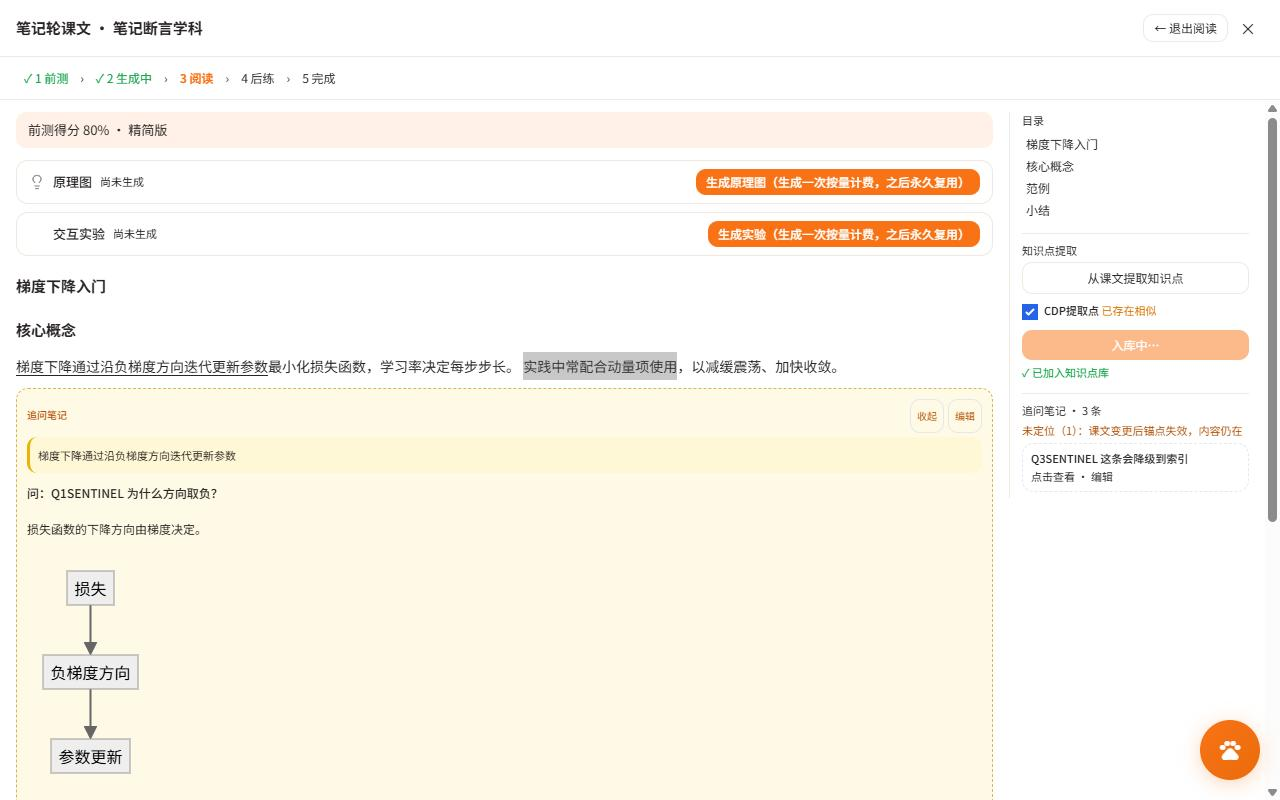
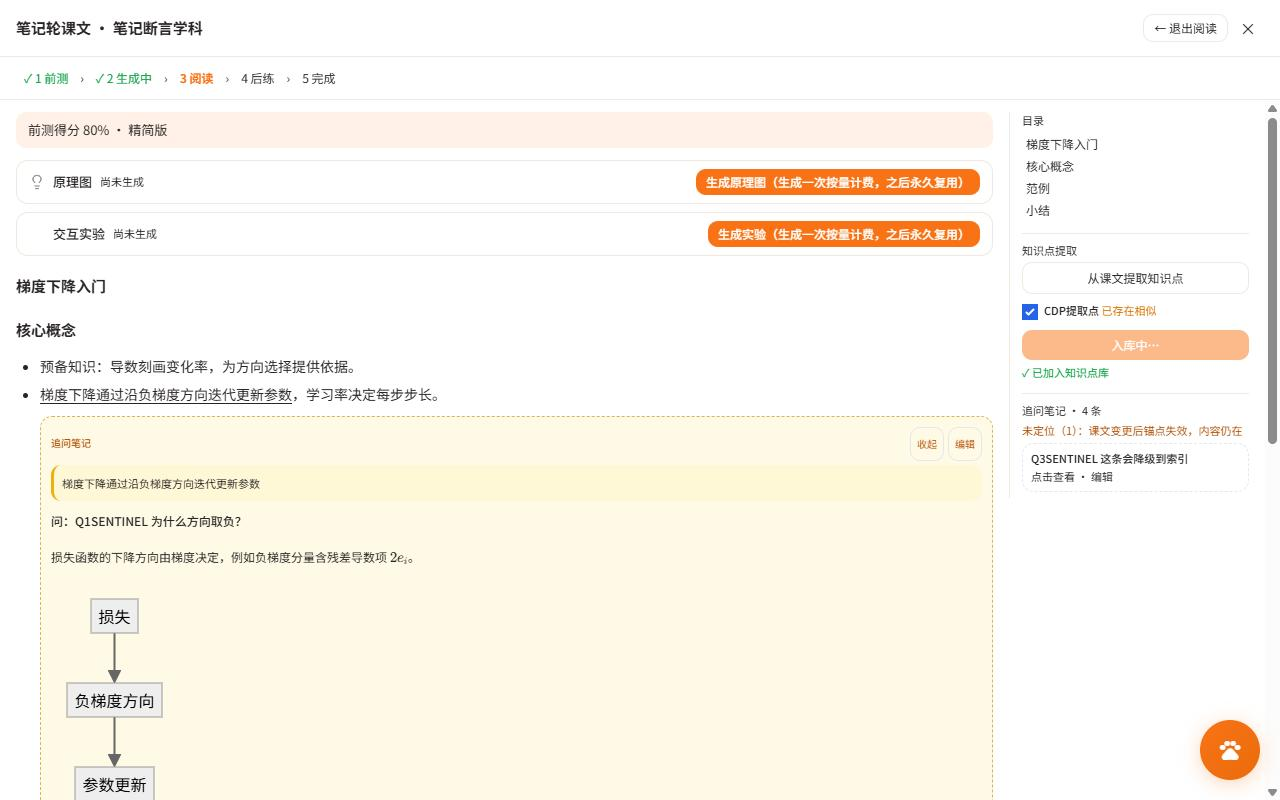
fix(course-notes): 全局禁缓存根治旧页面 + 子追问按锚落位统一渲染管线（八追/九追）
八追: app.py after_request 对 text/html 与 /fragments/ 设 no-store（SPA 主通道 JSON 包裹页面 HTML，只判 mimetype 会漏）；errorhandler 非 API HTTPException 改 get_response（raise e 使页面 404 全变 500）；永久测试 test_html_cache_no_store.py 7 例。

九追: learn_goals.html 子追问（追问的追问）不再堆父节末尾——hydrateNoteTree/hydrateNoteSection/placeChildNotes 统一管线在父回答渲染后文本内按 anchor_text 定位、挂行不挂块、同锚归组、锚不中降级 kids 内容不丢；wrapAnchorText 嵌套隔离（上溯到搜索根途中遇组才排除）；评审采纳同行多组跨链追加保持建序 + parent_id 成环限深。E2E N5 重写+N5b 降级用例，CDP 26/26 PASS。

Changed region(s): [[0.0, 0.4375, 0.7812, 1.0], [0.9688, 0.5625, 1.0, 0.6562]]

diff --git a/server/templates/pages/learn_goals.html b/server/templates/pages/learn_goals.html
@@ -895,6 +895,13 @@
         while ((nnode = tw.nextNode())) {
             if (nnode.closest && nnode.closest('script, style')) continue;
             if (!nnode.nodeValue) continue;
+            // 嵌套隔离（九追 2026-11-13）：从文本上溯到搜索根 root 途中遇 .cg-anchor-group
+            // → 该文本属于已落入 root 内部的笔记子组（如父回答里的子追问），不参与锚搜索；
+            // root 自身所在的祖先组不算（顶层组内父回答正文必须可被子锚命中）
+            for (var up = nnode.parentElement; up && up !== root; up = up.parentElement) {
+                if (up.classList && up.classList.contains('cg-anchor-group')) { nnode = null; break; }
+            }
+            if (!nnode) continue;
             nodes.push({ node: nnode, start: full.length });
             full += nnode.nodeValue;
         }
@@ -927,11 +934,73 @@
     function noteSectionHtml(list) {
         return list.map(function (n) { return renderNoteNode(n); }).join('');
     }
+    // 九追 2026-11-13：追问的追问要落在父回答里被框选的那段下面（此前所有子节点无条件
+    // 堆父节末尾，子笔记 anchor_text 从不参与落位——用户报「追问记录里位置都不对」）。
+    // 统一管线：渲父回答→回填 KaTeX（子锚以渲染后文本为准，与课文层同口径）→
+    // 子组插进带锚段后；锚不中/表格内降级节末容器，内容不丢。
+    function hydrateNoteTree(root, seen) {
+        if (!root || !root.querySelectorAll) return;
+        Array.prototype.forEach.call(root.querySelectorAll(':scope > .cg-note'), function (sec) { hydrateNoteSection(sec, seen); });
+    }
+    function hydrateNoteSection(sec, seen) {
+        var n = noteById(Number(sec.getAttribute('data-note-id')));
+        if (!n) return;
+        var aEl = sec.querySelector(':scope > .cg-note-a');
+        if (!aEl) return; // 折叠态无回答区：子节随父一起收起，展开重建时恢复
+        renderLessonMd(aEl, n.answer_md);
+        cgMermaid(aEl);
+        // 子锚搜索命中的是 renderLessonMd 内 applyMath 已回填的 KaTeX 渲染后文本（框选入库口径）；
+        // 此处 cgHydrateMath 仅作防御（引用级占位槽残余），不可去掉 renderLessonMd 的公式回填
+        cgHydrateMath(aEl);
+        placeChildNotes(sec, seen);
+    }
+    function placeChildNotes(sec, seen) {
+        seen = seen || {}; // 脏数据 parent_id 成环时限深（环上节点只渲一次，不致递归死循环）
+        var sid = Number(sec.getAttribute('data-note-id'));
+        if (seen[sid]) return;
+        seen[sid] = 1;
+        var kids = (flow.notes || []).filter(function (c) { return c.parent_id === sid; });
+        if (!kids.length) return;
+        var aEl = sec.querySelector(':scope > .cg-note-a');
+        var fallback = sec.querySelector(':scope > .cg-note-kids');
+        var grpMap = {}, order = []; // 同锚串归一组（与顶层 anchorNotes 同构）
+        kids.forEach(function (c) {
+            var k = String(c.anchor_text || '');
+            if (!grpMap[k]) { grpMap[k] = []; order.push(k); }
+            grpMap[k].push(c);
+        });
+        order.forEach(function (k) {
+            var list = grpMap[k];
+            var box = document.createElement('div');
+            box.className = 'cg-anchor-group';
+            var gk = 'cgAG' + list.map(function (c) { return c.id; }).join('_');
+            box.setAttribute('data-anchor-group', gk);
+            box.innerHTML = noteSectionHtml(list);
+            box.querySelectorAll(':scope > .cg-note').forEach(function (s) { s.setAttribute('data-anchor-group', gk); });
+            var placed = false;
+            if (aEl && k) {
+                var marks = wrapAnchorText(aEl, k, gk);
+                if (marks.length) {
+                    // 行级容器上溯同课文层口径（六追教训：挂整块=列表末尾错位）；
+                    // 找不到行级宿主（如锚在表格内）宁可降级，不硬插错位位置；
+                    // 同行已有子组时跨组链追加（CodeReview Major-1：同 appendNoteSection 走位，多组保持建序不反序）
+                    var ln = marks[0].parentNode, LINE_RE = /^(P|LI|BLOCKQUOTE|H[1-6]|DD|DT)$/;
+                    while (ln && ln !== aEl && !LINE_RE.test(ln.tagName || '')) ln = ln.parentNode;
+                    if (ln && ln !== aEl) {
+                        var ref = ln.nextSibling;
+                        while (ref && ref.nodeType === 1 && ref.classList && ref.classList.contains('cg-anchor-group')) { ref = ref.nextSibling; }
+                        ln.parentNode.insertBefore(box, ref); placed = true;
+                    }
+                }
+            }
+            if (!placed && fallback) { fallback.appendChild(box); placed = true; } // 降级：锚不中/无锚子节落节末，内容不丢
+            if (placed) hydrateNoteTree(box, seen); // 入文档后递归（携环检测）：孙辈在子回答内同法落位
+        });
+    }
     // 递归渲染一个笔记节点（虚线淡黄子章节）：引用 + 问 + 答（MD+公式+思路图同管线）
     // + 子节点（追问的追问，无限嵌套）+ 编辑/折叠；默认展开，折叠态存内存
     function renderNoteNode(n) {
         var collapsed = !!(flow.collapsed || {})[n.id];
-        var kids = (flow.notes || []).filter(function (c) { return c.parent_id === n.id; });
         var inner = '<div class="flex items-start justify-between gap-2 mb-1">'
             + '<span class="cg-note-tag text-[10px] font-medium text-amber-700 shrink-0 mt-0.5">追问笔记</span>'
             + '<span class="flex items-center gap-1 shrink-0">'
@@ -942,7 +1011,7 @@
         }
         inner += '<div class="cg-note-q text-[12px] font-medium text-cl-text mb-1">问：' + cgMdSpan(n.question) + '</div>';
         if (!collapsed) inner += '<div class="cg-note-a text-[12px] leading-6 text-cl-text"></div>'; // 折叠态只显摘要（引用+问），回答不渲染
-        if (!collapsed && kids.length) inner += '<div class="cg-note-kids mt-2 flex flex-col gap-2">' + kids.map(function (k) { return renderNoteNode(k); }).join('') + '</div>';
+        if (!collapsed) inner += '<div class="cg-note-kids mt-2 flex flex-col gap-2"></div>'; // 子节容器：命中锚的子节插进回答对应段后，此处只收降级件（九追）
         return '<div class="cg-read-note cg-note rounded-cl p-2.5 my-2" data-note-id="' + n.id + '" data-collapsed="' + (collapsed ? 1 : 0) + '">' + inner + '</div>';
     }
     function appendNoteSection(mdEl, anchorEl, list, gkey) {
@@ -960,15 +1029,9 @@
             if (ref) { anchorEl.parentNode.insertBefore(wrap, ref); }
             else { anchorEl.parentNode.appendChild(wrap); }
         } else { mdEl.appendChild(wrap); }
-        // 回答区（含嵌套子节）：入文档后就地渲染，走课文同一 MD/公式/mermaid 管线（图文并貌 prompt 的产物能出图）
-        Array.prototype.forEach.call(wrap.querySelectorAll('.cg-note'), function (sec) {
-            var n = noteById(Number(sec.getAttribute('data-note-id')));
-            if (!n) return;
-            var aEl = sec.querySelector('.cg-note-a');
-            if (!aEl) return; // 折叠态无回答区（展开时重建再渲）
-            renderLessonMd(aEl, n.answer_md);
-            cgMermaid(aEl);
-        });
+        // 回答区（含嵌套子节）：入文档后走统一管线（九追）——逐节渲回答→回填 KaTeX→
+        // 子追问在父回答内按锚落位；图文并貌 prompt 的产物能出图
+        hydrateNoteTree(wrap);
         cgHydrateMath(wrap); // 引用/问题占位 span 回填（KaTeX 必须在已入文档节点上渲）
     }
     function renderNotesIndex() {
@@ -1185,15 +1248,8 @@
             tmp.querySelectorAll(':scope > .cg-note').forEach(function (s) { s.setAttribute('data-anchor-group', gkey); });
         }
         if (grp.parentNode) grp.parentNode.replaceChild(tmp, grp);
-        // 入文档后再渲回答与回填占位（KaTeX/mermaid 对分离碎片不渲染）
-        Array.prototype.forEach.call(tmp.querySelectorAll('.cg-note'), function (sec) {
-            var n = noteById(Number(sec.getAttribute('data-note-id')));
-            if (!n) return;
-            var aEl = sec.querySelector('.cg-note-a');
-            if (!aEl) return; // 折叠节无回答区，展开时再渲染
-            renderLessonMd(aEl, n.answer_md);
-            cgMermaid(aEl);
-        });
+        // 入文档后走统一管线重建（九追）：回答渲染、KaTeX/mermaid 回填、子追问按锚落位全部重算
+        hydrateNoteTree(tmp);
         cgHydrateMath(tmp);
         window.__cgNoteToggled = true; // CDP 断言哨兵
     }

diff --git a/server/tests/_cg_notes_assert.js b/server/tests/_cg_notes_assert.js
@@ -119,10 +119,23 @@ function chk(name, ok, info) {
         return !!(sib && sib.classList.contains('cg-anchor-group') && sib.querySelector('.cg-read-note')); })()`);
     chk('N4b 笔记紧跟带锚列表项（非整表末尾）', n4b === true, { n4b });
 
-    // N5 无限嵌套：追问的追问渲染在父章节 .cg-note-kids 内
-    const n5 = await evalJs(`(function(){ var k = document.querySelector('.cg-read-note[data-note-id="${S.n1}"] .cg-note-kids .cg-note[data-note-id="${S.n2}"]');
-        return !!k && k.innerText.indexOf('Q2SENTINEL') >= 0 && k.innerText.indexOf('ANSWER2SENTINEL') >= 0; })()`);
-    chk('N5 嵌套子章节（追问的追问）渲染', n5 === true, { n5 });
+    // N5 追问的追问落位（九追 2026-11-13）：n2 锚「步长」必须落在父回答该段之后（非节末堆叠）
+    const n5 = await evalJs(`(function(){ var sec = document.querySelector('.cg-read-note[data-note-id="${S.n1}"]');
+        if (!sec) return null; var aEl = sec.querySelector(':scope > .cg-note-a');
+        var kidsSec = sec.querySelector(':scope > .cg-note-kids');
+        var inKids = !!(kidsSec && kidsSec.querySelector('.cg-note[data-note-id="${S.n2}"]'));
+        var m = aEl.querySelector('.cg-anchor'); if (!m) return { mark: false, inKids: inKids };
+        var ln = m; while (ln && ln.parentNode !== aEl) ln = ln.parentNode; // 锚所在、aEl 直接子行
+        var grp = ln ? ln.nextElementSibling : null;
+        var afterLine = !!(grp && grp.classList.contains('cg-anchor-group') && grp.querySelector('.cg-note[data-note-id="${S.n2}"]'));
+        return { mark: true, inKids: inKids, afterLine: afterLine, lineHas: !!(ln && ln.textContent.indexOf('步长') >= 0 && ln.tagName !== 'CG-NOTE-A'),
+                 sent: !!(grp && grp.innerText.indexOf('Q2SENTINEL') >= 0 && grp.innerText.indexOf('ANSWER2SENTINEL') >= 0) }; })()`);
+    chk('N5 子追问落父回答锚段之后（非节末）', !!n5 && n5.mark === true && n5.inKids === false && n5.afterLine === true && n5.lineHas === true && n5.sent === true, { n5 });
+
+    // N5b 子锚不中降级：n2b 落父节末尾 .cg-note-kids，内容不丢（九追）
+    const n5b = await evalJs(`(function(){ var k = document.querySelector('.cg-read-note[data-note-id="${S.n1}"] .cg-note-kids .cg-note[data-note-id="${S.n2b}"]');
+        return !!k && k.innerText.indexOf('Q2BSENTINEL') >= 0 && k.innerText.indexOf('ANSWER2BSENTINEL') >= 0; })()`);
+    chk('N5b 子锚不中降级节末 kids 内容不丢', n5b === true, { n5b });
 
     // N6 点锚文本收起 → 回答区消失只剩摘要；再点恢复展开
     await evalJs(`document.querySelector('#cgMdBody .cg-anchor').click(); 'ok'`, false);

diff --git a/server/tests/test_html_cache_no_store.py b/server/tests/test_html_cache_no_store.py
@@ -1,0 +1,89 @@
+# -*- coding: utf-8 -*-
+"""HTML 页面全局防缓存断言（实弹轮八追 2026-11-13：项目此前 0 缓存控制头，
+Chromium/Electron 对无 validators 的 HTML 走启发式缓存，部署修复用户碰不到）。
+
+运行方式（server/ 目录）：python -m pytest tests/test_html_cache_no_store.py -v
+"""
+import sys
+from pathlib import Path
+
+sys.path.insert(0, str(Path(__file__).resolve().parents[1]))
+
+
+def _app():
+    from app import create_app
+    app = create_app()
+    app.config["TESTING"] = True
+    return app
+
+
+def test_page_html_no_store():
+    """GET /learn_goals：text/html 响应必须带 Cache-Control: no-store。"""
+    with _app().test_client() as c:
+        r = c.get("/learn_goals")
+        assert r.status_code == 200
+        assert r.mimetype == "text/html"
+        assert r.headers.get("Cache-Control") == "no-store", dict(r.headers)
+
+
+def test_shell_html_no_store():
+    """SPA 壳 GET /：同样 no-store（壳内同样可能承载页面脚本）。"""
+    with _app().test_client() as c:
+        r = c.get("/")
+        assert r.status_code == 200
+        assert r.mimetype == "text/html"
+        assert r.headers.get("Cache-Control") == "no-store"
+
+
+def test_api_json_not_touched():
+    """JSON API 不属于 text/html：不加 no-store（本修复只管页面文档）。"""
+    with _app().test_client() as c:
+        r = c.get("/api/health")
+        assert r.status_code == 200
+        assert r.mimetype == "application/json"
+        assert r.headers.get("Cache-Control") != "no-store"
+
+
+def test_static_css_not_no_store():
+    """静态资源不受影响（CodeReview Minor-1）：cl.css 保持 mtime 版本号缓存机制，
+    不得被误加 no-store；200/304 均可，关键看头。"""
+    with _app().test_client() as c:
+        r = c.get("/static/css/cl.css")
+        assert r.status_code in (200, 304)
+        assert r.headers.get("Cache-Control") != "no-store"
+
+
+def test_spa_fragment_no_store():
+    """SPA 主页面通道 /fragments/<id>（八追核心）：learn_goals 等页面的 HTML+JS 实经
+    此 JSON 包裹通道送达用户——虽 mimetype 是 application/json 也必须 no-store，
+    否则「改了但用户碰不到」依旧重演。未鉴权 401 同样应带头。"""
+    with _app().test_client() as c:
+        r = c.get("/fragments/learn_goals")
+        assert r.status_code in (200, 401)
+        assert r.headers.get("Cache-Control") == "no-store"
+
+
+def test_error_html_page_no_store():
+    """文档级 HTML 错误页同样带 no-store（CodeReview Minor-2）：防旧错误页被缓存。
+    取非 /api/ 前缀的不存在路径（/api/ 错误回 JSON 不属 text/html 分支）。
+    TESTING 模式默认 PROPAGATE_EXCEPTIONS=True 会把 NotFound 直抛给测试方，
+    生产路径实为渲染 HTML 错误页，故显式关 PROPAGATE_EXCEPTIONS 对齐。"""
+    app = _app()
+    app.config["PROPAGATE_EXCEPTIONS"] = False
+    with app.test_client() as c:
+        r = c.get("/no_such_page_zzz")
+        assert r.status_code == 404
+        assert r.mimetype == "text/html"
+        assert r.headers.get("Cache-Control") == "no-store"
+
+
+def test_api_error_stays_json():
+    """/api/ 前缀错误仍回 JSON 形（钉住追问笔记树轮 errorhandler 分支 + 八追修复不串道）：
+    API 路径 404 不得因 HTTPException 优先分支变成 HTML。"""
+    app = _app()
+    app.config["PROPAGATE_EXCEPTIONS"] = False
+    with app.test_client() as c:
+        r = c.get("/api/no_such_zzz")
+        assert r.status_code == 404
+        assert r.mimetype == "application/json"
+        assert r.get_json()["success"] is False

diff --git a/server/app.py b/server/app.py
@@ -70,6 +70,18 @@ def create_app() -> Flask:
     def _reset_billing_ctx():
         _credits.set_last_billing(None)
 
+    # HTML 页面全局防缓存（实弹轮 2026-11-13 八追）：页面模板内嵌全部 JS，此前项目 0 个
+    # 缓存控制头，Chromium/Electron 对无 validators 的响应走启发式缓存——服务重启部署后
+    # 用户仍跑旧版页面（「改了但用户碰不到」三度重演的结构性根因）。除 text/html 外还
+    # 须覆盖 /fragments/：SPA 菜单切页走 fetch('/fragments/<id>')，页面 HTML+JS 裹在
+    # application/json 体里送达，是用户实际碰到的主页面通道；静态资源不受影响（cl.css
+    # 已有 mtime 版本号机制）。
+    @app.after_request
+    def _no_store_html(resp):
+        if resp.mimetype == "text/html" or request.path.startswith("/fragments/"):
+            resp.headers["Cache-Control"] = "no-store"
+        return resp
+
     app.register_blueprint(pages_bp)  # P2c 页面路由（SPA 壳 + 登录页 + fragments）
     app.register_blueprint(auth_bp)
     app.register_blueprint(kb_bp)  # P3 业务 API（科目/提取/确认/错题/收藏/脑图/练习/笔记）
@@ -91,15 +103,20 @@ def create_app() -> Flask:
     # 仅限 /api/ 前缀，页面路由不受影响；异常照旧进统一调试日志留痕。
     @app.errorhandler(Exception)
     def _api_error_json(e):
+        from werkzeug.exceptions import HTTPException
         if request.path.startswith("/api/"):
             try:
                 debug_logger.log_error("api", "unhandled_exception", e, {"path": request.path})
             except Exception:  # noqa: BLE001 留痕失败不阻断报错
                 pass
-            from werkzeug.exceptions import HTTPException
             if isinstance(e, HTTPException):  # 404/405 等标准错误也回 JSON 形
                 return jsonify({"success": False, "error": e.description or str(e)}), e.code
             return jsonify({"success": False, "error": f"服务内部错误: {e}"}), 500
+        # 非 API 路径：HTTP 异常（404/405 等）原样渲染标准错误页。此前直接 raise e
+        # 会被 Flask 当作「错误处理器自身抛异常」不再二次处理，页面路由 404 全部变
+        # 500（八追实弹轮 2026-11-13 活服探针发现）；真未控异常照旧上抛走默认处理。
+        if isinstance(e, HTTPException):
+            return e.get_response()
         raise e
 
     # 统一调试日志通道（客户端/前端上报；与旧工程 app_flask 相同语义：静默失败）

diff --git a/server/tests/_cg_notes_seed.py b/server/tests/_cg_notes_seed.py
@@ -2,11 +2,12 @@
 """课文追问笔记树 E2E 断言 seed（仅测试用户数据，用后即删，零 LLM）。
 
 argv: username out_json
-建 goal→module→lesson（content_ready 正文在库 → openLesson 直进阅读步），灌 3 条 lesson_notes：
+建 goal→module→lesson（content_ready 正文在库 → openLesson 直进阅读步），灌 4 条 lesson_notes：
 n1 顶层（锚文本在正文中，可锚定；回答含 mermaid 思路图与哨兵 ANSWER1）、
-n2 追问的追问（parent=n1，无限嵌套断言用）、
+n2 追问的追问（parent=n1，锚=父回答里的「步长」段 → 九追断言：落在该段之后）、
+n2b 追问的追问（parent=n1，锚在父回答中不存在 → 降级落节末 kids 容器，内容不丢）、
 n3 顶层锚文本不存在（降级右栏「未定位笔记」索引断言用）。
-输出 {uid,gid,mid,lid,n1,n2,n3} 供 node 断言与清理。"""
+输出 {uid,gid,mid,lid,n1,n2,n2b,n3} 供 node 断言与清理。"""
 import json
 import sys
 
@@ -61,10 +62,11 @@ def _note(parent, anchor, q, a):
 
 n1 = _note(None, "梯度下降通过沿负梯度方向迭代更新参数", "Q1SENTINEL 为什么方向取负？", ANS1)
 n2 = _note(n1, "步长", "Q2SENTINEL 那步长取多大合适？", "ANSWER2SENTINEL 经验值 0.01~0.1，配学习率衰减。")
+n2b = _note(n1, "ZZZ父回答里不存在的锚", "Q2BSENTINEL 降级用例", "ANSWER2BSENTINEL 锚不中落节末不丢内容。")
 n3 = _note(None, "ZZZ正文里根本不存在的锚点片段", "Q3SENTINEL 这条会降级到索引", "ANSWER3SENTINEL 内容不丢可编辑。")
 conn.commit()
 
-res = {"uid": uid, "gid": gid, "mid": mid, "lid": lid, "n1": n1, "n2": n2, "n3": n3}
+res = {"uid": uid, "gid": gid, "mid": mid, "lid": lid, "n1": n1, "n2": n2, "n2b": n2b, "n3": n3}
 with open(out_path, "w", encoding="utf-8") as f:
     json.dump(res, f, ensure_ascii=False)
 print("SEEDED", res)

diff --git a/docs/开发日志/2026-11-12-课文追问笔记树.md b/docs/开发日志/2026-11-12-课文追问笔记树.md
@@ -72,3 +72,17 @@
 
 ## 七追：追问回答里频繁出现 `$2e_i$` 裸显——公式货币守卫误杀数字开头真公式（同日收紧）
 用户问「经常有 $2e_i$ 这样的显示是公式没渲染好吗」。取证（临时库探，跑完删）：先排除展示位——iframe 产物里的 $ 几乎全是 JS 模板字符串 `${...}` 误匹配；真凶在追问回答 note 3658 的 answer_md：`$2e_i$`、`$2(\hat y_i-y_i)$` 裸显而同表 `$\frac{2}{n}$` 正常——读 `md_render.js` 定位根因：**货币防误判规则「公式体以数字开头就不当公式」一刀切**，本意护「花了 $5 和 $6」，但 LLM 行内公式极常见数字开头全被误杀（2026-10-13 立法注释自写代价「$5x$ 显示原文」，实弹证明代价不可控）。修（两侧同口径收紧，缺一侧会一侧收口一侧丢弃错位）：数字开头**且不含数学痕迹（_ ^ { } \ =）**才按货币保留；含痕迹照常提取——`$2e_i$`✓ `$135^\circ$`✓，`$3.14$`/`$1,000$`/「$5 和 $6」仍受保护。落点：`static/js/md_render.js`（渲染层，错题/课文/追问全落点受益）+ `services/import_service.py` `_normalize_ocr_math_delims`（OCR 收口层同守卫收紧，新增 `_OCR_MATH_TRACE_RE`）。验证：node 组件 11/11 PASS（新用例 $2e_i$ 抽出 + $3.14$/$1,000$ 保留）；pytest s4 18/18 PASS（幂等样本断言改口径：$ 135^\circ $ 从「保持」改「收口」，旧断言钉的是当年漏杀行为）；CDP 真浏览器 25/25 PASS（seed 回答永久加 $2e_i$ + 新 N4a 断言「KaTeX 已渲染且不裸显」）；CodeReview 无 Blocker/Major，Minor-2（$1,000$ 反向锚点）当场补用例，Minor-1（「$ 5 = $ 6 元」两段货币+等号极端错位）按评审建议留档不改（宁漏不错包，Paddle 产物极少出现）；重启 9992 部署（新 PID 72408）。业务规则 §16.1/§16.5 同步收紧口径。另：评审发现 `test_pdf_ocr_math_render_s4.py` 自 11-03 创建后一直未入仓，本次补提交。
+
+## 八追：「追问位置都不对，全在课文最下面」——真凶是浏览器缓存，全项目 0 缓存控制头根治（2026-11-13 实弹轮）
+用户反复报追问笔记全部落在课文底部。取证链（全部排除后剩缓存）：① 首版 8a972a7 与现版锚定逻辑逐行核对等价，历史从无「落全篇底部」行为；② 全库核查用户真数据（课文 2762 仅 5 条笔记、唯一顶层锚非空），数据面无异常；③ 镜像复现——镜像用户 1:1 复制真实课文正文+真实笔记，CDP 真浏览器 DOM 断言+截图证明**最新代码落点正确**（组在正文 3% 位置）。定性：全项目 Grep `Cache-Control` **0 命中**，页面模板内嵌全部 JS，Chromium/Electron 启发式缓存 → 历轮修复用户始终碰不到旧版页面在报错位置（五追三「旧页面假超时」已是同一根因的第三次重演）。根治（`app.py`）：
+- 全局 `after_request`：`text/html` **或 `/fragments/` 前缀**响应统一 `Cache-Control: no-store`——关键发现：SPA 菜单切页走 `fetch('/fragments/<id>')`，页面 HTML+JS 裹在 JSON 体里送达（application/json，按 mimetype 判会漏主通道）；桌面 Electron 全部 loadURL 指向 9992 无本地副本，服务端头直达用户。
+- 连带修复七追遗留缺陷：`errorhandler` 内对非 API 路径 `raise e` 会被 Flask 视作「处理器自身抛异常」不再二次处理 → 页面 404 全变异成 500；HTTPException 改 `return e.get_response()`，真未控异常照旧上抛，API JSON 分支不变。
+验证：永久测试 `tests/test_html_cache_no_store.py` 7 例（页面/壳/404 错误页带 no-store、/fragments 带 no-store、静态 css/API 不受影响、/api 404 仍回 JSON）全 PASS；CodeReview 无 Blocker/Major（Minor 采纳）；三次重启部署（终 PID 71416），活服探针 6 路径全绿；CDP 回归 25/25；镜像测试数据零残留。交付口径：用户强刷（Ctrl+F5）/重开应用后课堂位置即对。
+
+## 九追：「课堂位置对了，但追问记录里的追问位置还是不对」——子追问从不按锚落位，统一渲染管线修复（同日实弹轮）
+用户确认八追生效后发现新问题：**追问的追问（子笔记）没有落在父回答里被框选的那段下面，全部堆在父节末尾**。读码定性（真实现缺陷，非缓存）：子笔记 anchor_text 虽入库（框选父回答内文本），但 `renderNoteNode` 字符串递归把所有直接子节点无条件追加 `.cg-note-kids`，anchor_text 从不参与落位。修复（`learn_goals.html` 统一渲染管线）：
+- 新增 `hydrateNoteTree/hydrateNoteSection/placeChildNotes` 三件套：节骨架先入文档 → 渲父回答（MD+mermaid+KaTeX）→ 直接子笔记按 anchor_text 在父回答内 `wrapAnchorText` 定位 → 行级容器（p/li/引用/标题，同课文层六追口径）上溯后插到该段之后；同锚串归一组（与顶层 anchorNotes 同构）；锚不中/表格内/无回答区降级节末 kids 容器，**内容不丢**；入文档后递归处理孙辈（任意深度同法落位）。
+- `wrapAnchorText` 嵌套隔离：从文本上溯到搜索根途中遇 `.cg-anchor-group` 才排除（首版误用 `closest` 把顶层组内父回答正文全误排除——子锚永搜不到，自查当场修正）；`root` 自身所在祖先组不算。
+- 折叠语义保持：折叠态无回答区，子节随父收起；点锚 toggle/重渲后走统一管线全部重算。
+- CodeReview 采纳：Major-1 同一行多组子锚改跨组链追加保持建序（与 appendNoteSection 走位对齐）；Minor 环检测（parent_id 脏数据成环时限深只渲一次）与 KaTeX 回填注释口径修正。
+验证：E2E 断言升级——seed 加 n2b（子锚不中降级用例），N5 重写为「n2 落父回答锚段之后且不在节末」+N5b「降级节末内容不丢」；重启部署（终 PID 62956）后 CDP 26/26 全 PASS；八追永久测试复跑 7 passed。框选交互口径确认兼容：mouseup 在父回答内框选新追问，parentId 取 `closest('.cg-note')` 即父节 id，提交后全量重锚走新管线落位。

diff --git a/docs/业务规则/业务规则总览.md b/docs/业务规则/业务规则总览.md
@@ -900,6 +900,7 @@ if not full_path.startswith(base_dir):  # 路径遍历防御
 - **笔记挂「那一行」不挂「那一块」**（完全展开轮 2026-11-13 实弹：锚句是列表第3项，笔记被推到整张 ul 末尾、用户看到「不在那句下面而是下三行」）：宿主上溯先找最近行级容器（p/li/blockquote/h1-h6/dd/dt），列项场景章节组直接插在带锚 li 之后（同 ul 内）；表格内/无行级容器场景保持顶层块现例（插 div 进 tr 会碎版）；CDP N4b 断言长期守卫。
 - 锚失效（课文重生成/变更）→ 该节点降级右栏「未定位笔记」索引，内容仍可见可编辑，**不静默丢**。
 - 重锚前必须清旧 `.cg-anchor-group`（全量重锚幂等，防子章节叠加重复，评审轮自查出的真雷）。
+- **追问的追问同样按锚落位**（九追 2026-11-13 实弹：子追问此前全部堆父节末尾，用户报「位置还是不对」）：子笔记 anchor_text 在**父回答渲染后文本**内定位，同「挂行不挂块」口径插到被框选那段之后；同锚串子节归一组；锚不中/表格内降级父节末尾容器，内容不丢；任意深度孙辈递归同法落位（父回答内框选新追问即挂对应父节）。
 
 ### 25.3 追问生成 prompt 纪律（图文并茂）
 
